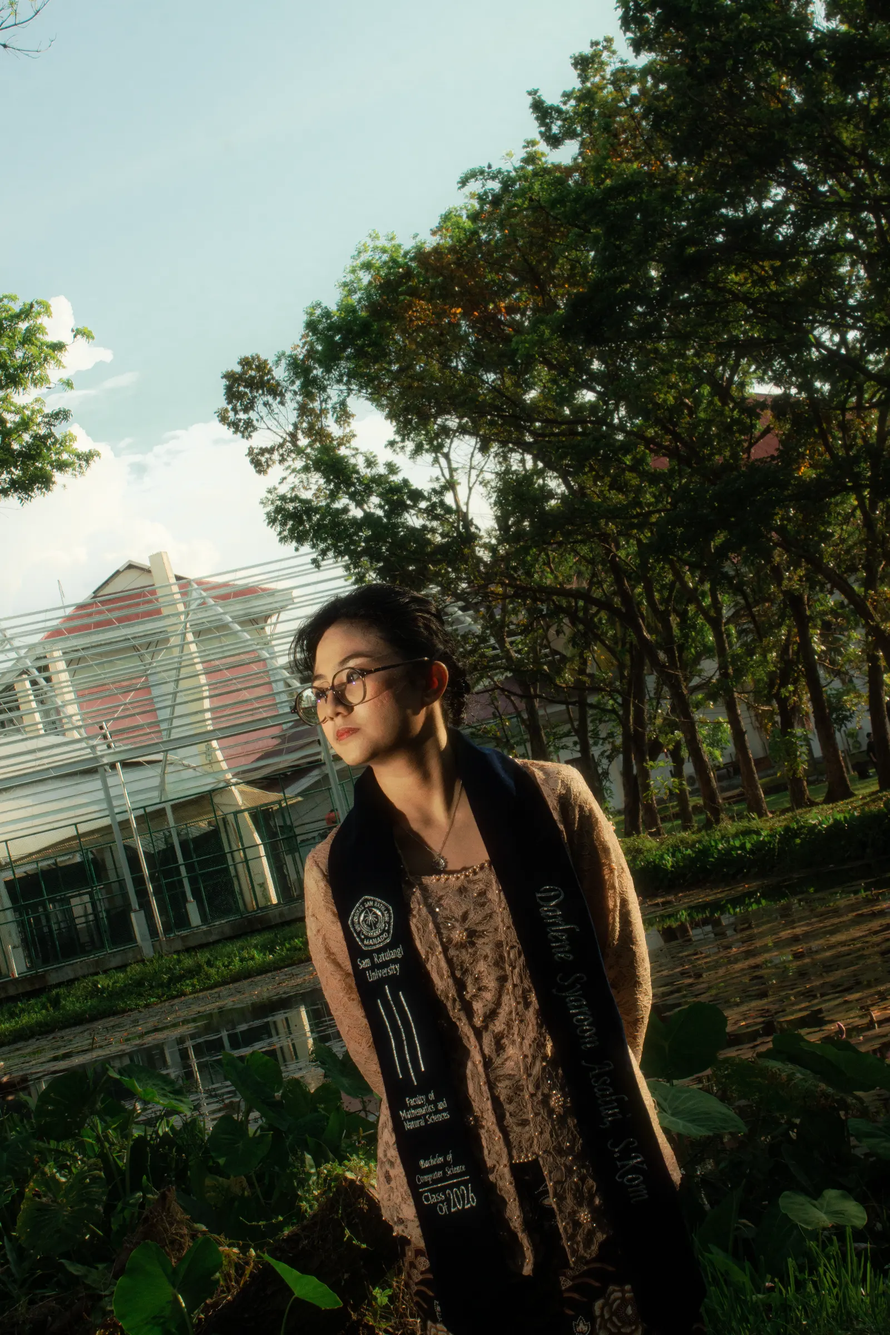
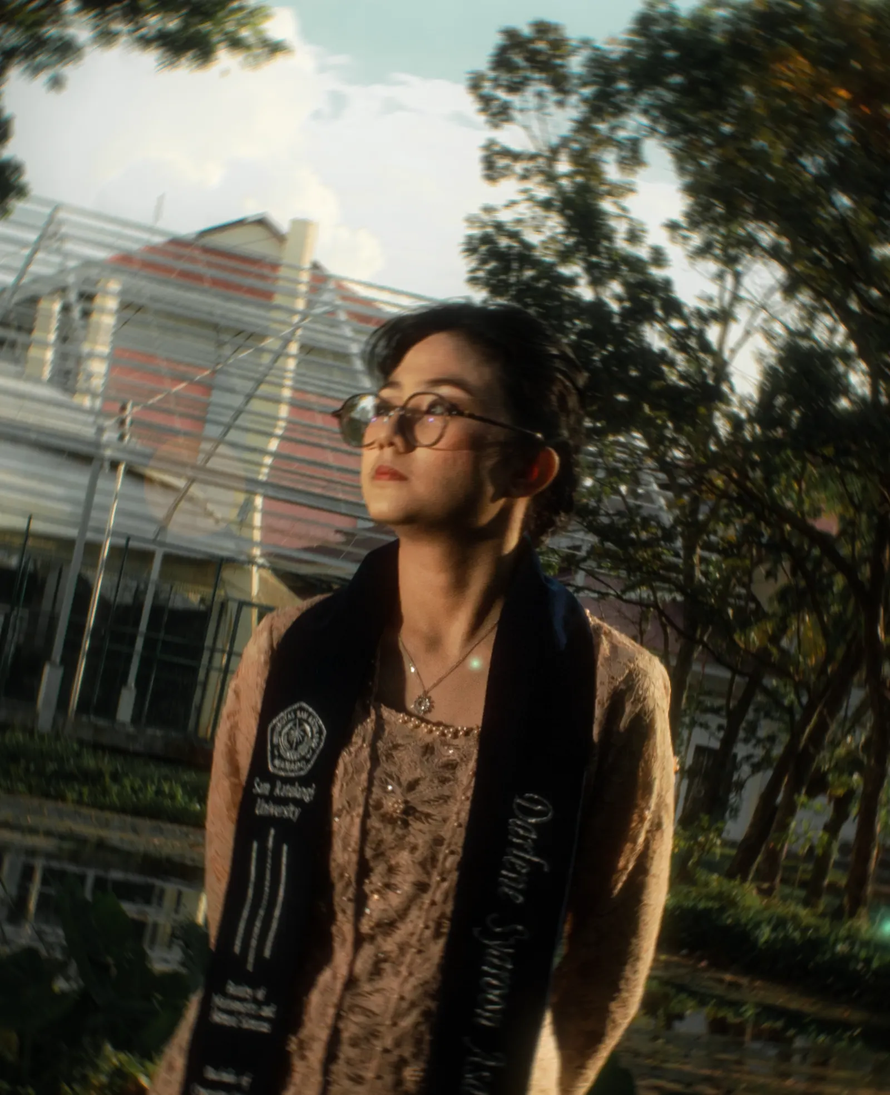
update full screen foto dan UI id card about

diff --git a/src/pages/Portfolio.jsx b/src/pages/Portfolio.jsx
@@ -1,6 +1,6 @@
 import React, { useState, useEffect, useCallback, useMemo } from 'react';
 import { motion, AnimatePresence } from 'framer-motion';
-import { X, ChevronLeft, ChevronRight, MapPin, Play } from 'lucide-react';
+import { X, ChevronLeft, ChevronRight, MapPin, Play, Maximize2 } from 'lucide-react';
 import { ArrowUpDown } from 'lucide-react';
 import { teamData } from '../data/team';
 
@@ -164,25 +164,25 @@ const portfolioData = [
       { id: 2, role: 'Lighting Assistant' },
     ],
   },
-  {
-    id: 9,
-    title: '2026 Korea Tourism Seminar',
-    subtitle: 'KTO Manado Seminar',
-    category: 'Events',
-    date: '2026-08-27',
-    location: 'Four Points by Sheraton, Manado',
-    client: 'Lokodi & KTO',
-    cover: 'src/assets/eventspics/kto1.webp',
-    photos: [
-      { src: 'src/assets/eventspics/kto1.webp', caption: 'Office Portrait' },
-      { src: 'src/assets/eventspics/kto2.webp', caption: 'City Backdrop' },
-      { src: 'src/assets/eventspics/kto3.webp', caption: 'City Backdrop' },
-      { src: 'src/assets/eventspics/kto4.webp', caption: 'City Backdrop' },
-    ],
-    team: [
-      { id: 1, role: 'Lead Photographer' },
-      { id: 2, role: 'Assistant Photographer' },
-    ],
+  {    
+    id: 9,    
+    title: '2026 Korea Tourism Seminar',    
+    subtitle: 'KTO Manado Seminar',    
+    category: 'Events',    
+    date: '2026-08-27',    
+    location: 'Four Points by Sheraton, Manado',    
+    client: 'Lokodi & KTO',    
+    cover: 'src/assets/eventspics/kto1.webp',   
+    photos: [      
+      { src: 'src/assets/eventspics/kto1.webp', caption: 'Office Portrait' },      
+      { src: 'src/assets/eventspics/kto2.webp', caption: 'City Backdrop' },      
+      { src: 'src/assets/eventspics/kto3.webp', caption: 'City Backdrop' },      
+      { src: 'src/assets/eventspics/kto4.webp', caption: 'City Backdrop' },    
+    ],    
+    team: [      
+      { id: 1, role: 'Lead Photographer' },      
+      { id: 2, role: 'Assistant Photographer' },    
+    ],  
   },
   {
     id: 10,
@@ -324,7 +324,7 @@ function TeamStack({ team }) {
   );
 }
 
-function CoverflowCarousel({ photos, activeIndex, setActiveIndex }) {
+function CoverflowCarousel({ photos, activeIndex, setActiveIndex, onExpand }) {
   const total = photos.length;
   const goTo = (i) => setActiveIndex(((i % total) + total) % total);
 
@@ -377,10 +377,114 @@ function CoverflowCarousel({ photos, activeIndex, setActiveIndex }) {
               className="w-full h-full object-cover pointer-events-none"
               draggable={false}
             />
+
+            {/* Tombol fullscreen — cuma muncul di foto yang lagi aktif di tengah */}
+            {isActive && (
+              <button
+                onClick={(e) => {
+                  e.stopPropagation();
+                  onExpand();
+                }}
+                onPointerDown={(e) => e.stopPropagation()}
+                aria-label="Lihat foto layar penuh"
+                className="absolute top-2 right-2 z-20 w-8 h-8 rounded-full bg-black/50 hover:bg-black/70 backdrop-blur flex items-center justify-center text-white transition-colors"
+              >
+                <Maximize2 className="w-4 h-4" />
+              </button>
+            )}
           </motion.div>
         );
       })}
     </div>
+  );
+}
+
+// Viewer layar penuh — dibuka dari tombol expand di CoverflowCarousel.
+// Dipisah dari ProjectModal, tapi tetap berbagi activeIndex/photos yang sama
+// biar navigasi prev/next-nya sinkron sama posisi carousel di belakangnya.
+function FullscreenViewer({ photo, photos, activeIndex, onNavigate, onClose }) {
+  const total = photos.length;
+
+  useEffect(() => {
+    const handleKeyDown = (e) => {
+      if (e.key === 'Escape') onClose();
+      if (e.key === 'ArrowRight') onNavigate(activeIndex + 1);
+      if (e.key === 'ArrowLeft') onNavigate(activeIndex - 1);
+    };
+    window.addEventListener('keydown', handleKeyDown);
+    return () => window.removeEventListener('keydown', handleKeyDown);
+  }, [activeIndex, onNavigate, onClose]);
+
+  return (
+    <motion.div
+      initial={{ opacity: 0 }}
+      animate={{ opacity: 1 }}
+      exit={{ opacity: 0 }}
+      transition={{ duration: 0.2 }}
+      // z-index sengaja di atas .grain (z-9999 di index.css) biar overlay
+      // noise/tekstur global itu nggak ikut nutupin foto di sini, dan di
+      // atas segala isi modal lain. onClick di backdrop ini juga di-stop
+      // propagation-nya biar klik nggak "nembus" ke backdrop ProjectModal
+      // di belakangnya (yang punya onClick={onClose} sendiri buat nutup
+      // seluruh modal) — tanpa ini, nutup fullscreen ikut nutup modal juga.
+      className="fixed inset-0 z-[10050] bg-black/95 flex items-center justify-center p-4 md:p-10"
+      onClick={(e) => {
+        e.stopPropagation();
+        onClose();
+      }}
+      data-lenis-prevent
+    >
+      <button
+        onClick={(e) => {
+          e.stopPropagation();
+          onClose();
+        }}
+        aria-label="Tutup layar penuh"
+        className="absolute top-4 right-4 md:top-6 md:right-6 w-10 h-10 rounded-full bg-white/10 hover:bg-white/20 flex items-center justify-center text-white transition-colors z-10"
+      >
+        <X className="w-5 h-5" />
+      </button>
+
+      {total > 1 && (
+        <>
+          <button
+            onClick={(e) => {
+              e.stopPropagation();
+              onNavigate(activeIndex - 1);
+            }}
+            aria-label="Foto sebelumnya"
+            className="absolute left-3 md:left-6 top-1/2 -translate-y-1/2 w-10 h-10 md:w-12 md:h-12 rounded-full bg-white/10 hover:bg-white/20 flex items-center justify-center text-white transition-colors z-10"
+          >
+            <ChevronLeft className="w-6 h-6" />
+          </button>
+          <button
+            onClick={(e) => {
+              e.stopPropagation();
+              onNavigate(activeIndex + 1);
+            }}
+            aria-label="Foto berikutnya"
+            className="absolute right-3 md:right-6 top-1/2 -translate-y-1/2 w-10 h-10 md:w-12 md:h-12 rounded-full bg-white/10 hover:bg-white/20 flex items-center justify-center text-white transition-colors z-10"
+          >
+            <ChevronRight className="w-6 h-6" />
+          </button>
+        </>
+      )}
+
+      <AnimatePresence mode="wait">
+        <motion.img
+          key={photo.src}
+          initial={{ opacity: 0, scale: 0.96 }}
+          animate={{ opacity: 1, scale: 1 }}
+          exit={{ opacity: 0, scale: 0.96 }}
+          transition={{ duration: 0.2 }}
+          src={photo.src}
+          alt={photo.caption}
+          onClick={(e) => e.stopPropagation()}
+          className="max-w-full max-h-full object-contain select-none"
+          draggable={false}
+        />
+      </AnimatePresence>
+    </motion.div>
   );
 }
 
@@ -419,25 +523,33 @@ function VideoEmbed({ embedUrl, title }) {
 function ProjectModal({ project, onClose }) {
   const isVideo = project.type === 'video';
   const [activeIndex, setActiveIndex] = useState(0);
+  const [isFullscreen, setIsFullscreen] = useState(false);
   const total = isVideo ? 0 : project.photos.length;
   const projectTeam = resolveTeam(project.team);
 
-  const handleNext = useCallback(() => {
-    if (!isVideo) setActiveIndex((p) => (p + 1) % total);
-  }, [isVideo, total]);
-  const handlePrev = useCallback(() => {
-    if (!isVideo) setActiveIndex((p) => (p - 1 + total) % total);
-  }, [isVideo, total]);
+  const goToIndex = useCallback(
+    (i) => {
+      if (isVideo || total === 0) return;
+      setActiveIndex(((i % total) + total) % total);
+    },
+    [isVideo, total]
+  );
+
+  const handleNext = useCallback(() => goToIndex(activeIndex + 1), [activeIndex, goToIndex]);
+  const handlePrev = useCallback(() => goToIndex(activeIndex - 1), [activeIndex, goToIndex]);
 
   useEffect(() => {
     const handleKeyDown = (e) => {
+      // Kalau fullscreen viewer lagi kebuka, biarkan dia sendiri yang
+      // nanganin Escape/arrow key (lihat FullscreenViewer), jangan dobel.
+      if (isFullscreen) return;
       if (e.key === 'Escape') onClose();
       if (e.key === 'ArrowRight') handleNext();
       if (e.key === 'ArrowLeft') handlePrev();
     };
     window.addEventListener('keydown', handleKeyDown);
     return () => window.removeEventListener('keydown', handleKeyDown);
-  }, [handleNext, handlePrev, onClose]);
+  }, [handleNext, handlePrev, onClose, isFullscreen]);
 
   // Lock scroll halaman di belakang selama modal terbuka. Ini nyetop
   // scroll native, TAPI project ini pakai Lenis (smooth-scroll berbasis JS)
@@ -500,6 +612,7 @@ function ProjectModal({ project, onClose }) {
                 photos={project.photos}
                 activeIndex={activeIndex}
                 setActiveIndex={setActiveIndex}
+                onExpand={() => setIsFullscreen(true)}
               />
 
               <button
@@ -564,6 +677,18 @@ function ProjectModal({ project, onClose }) {
           </div>
         )}
       </motion.div>
+
+      <AnimatePresence>
+        {isFullscreen && !isVideo && (
+          <FullscreenViewer
+            photo={activePhoto}
+            photos={project.photos}
+            activeIndex={activeIndex}
+            onNavigate={goToIndex}
+            onClose={() => setIsFullscreen(false)}
+          />
+        )}
+      </AnimatePresence>
     </motion.div>
   );
 }

diff --git a/src/components/TeamIDCards.jsx b/src/components/TeamIDCards.jsx
@@ -72,10 +72,21 @@ function nameSizeClass(name) {
   return 'text-xl sm:text-2xl md:text-3xl';
 }
 
+// Semua foto sekarang sudah di-crop/di-resize konsisten di source-nya, jadi
+// cukup pakai satu setting default yang sama untuk semua member — nggak perlu
+// override per-nama lagi kayak sebelumnya.
+const DEFAULT_FOCUS = { position: '50% 20%', scale: 1.15 };
+
+function getImageFocus() {
+  return DEFAULT_FOCUS;
+}
+
+
 function IDBadge({ member, index }) {
   const tilt = TILTS[index % TILTS.length];
   const duration = DURATIONS[index % DURATIONS.length];
   const accent = index % 2 === 0 ? 'text-accentPrimary' : 'text-accentSecondary';
+  const focus = getImageFocus();
 
   return (
     <motion.div
@@ -122,7 +133,11 @@ function IDBadge({ member, index }) {
             alt={member.name}
             draggable={false}
             loading="lazy"
-            className="w-full h-full object-cover object-center scale-[1.35]"
+            className="w-full h-full object-cover"
+            style={{
+              objectPosition: focus.position,
+              transform: `scale(${focus.scale})`,
+            }}
           />
         </div>
 
